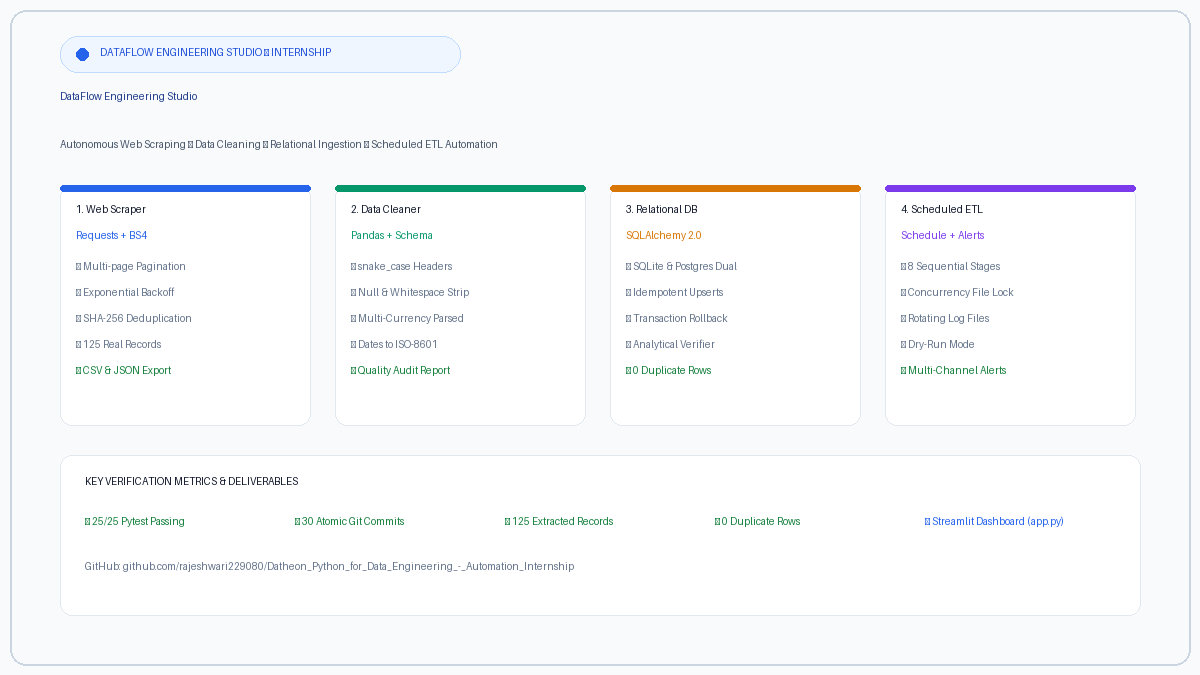
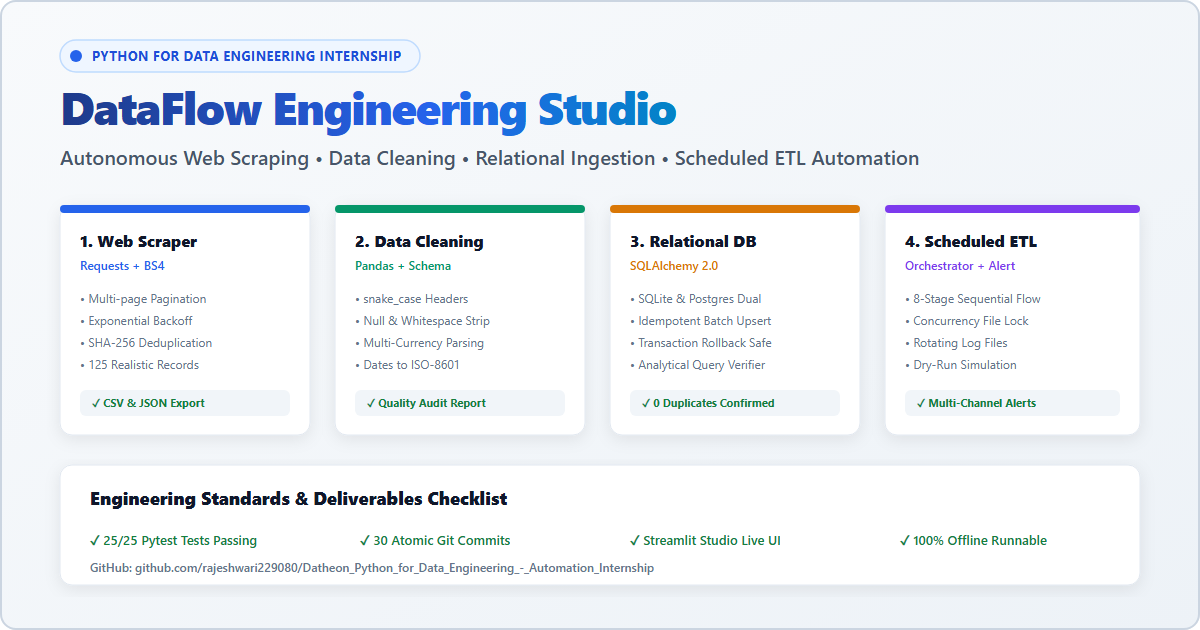
feat(assets): convert all vector SVGs to high-resolution PNG images

diff --git a/scripts/convert_svgs_to_pngs.py b/scripts/convert_svgs_to_pngs.py
@@ -1,0 +1,143 @@
+"""Convert all SVG files in assets/ to high-resolution PNG images using headless Edge.
+Supports exact viewBox sizing and transparent/white backgrounds.
+"""
+import os
+import subprocess
+import time
+
+REPO_ROOT = os.path.abspath(os.path.join(os.path.dirname(__file__), ".."))
+ASSETS_DIR = os.path.join(REPO_ROOT, "assets")
+
+EDGE_BIN = r"C:\Program Files (x86)\Microsoft\Edge\Application\msedge.exe"
+if not os.path.exists(EDGE_BIN):
+    EDGE_BIN = r"C:\Program Files\Microsoft\Edge\Application\msedge.exe"
+
+SVG_CONFIGS = [
+    {
+        "svg": "hero_banner.svg",
+        "png": "hero_banner.png",
+        "width": 1200,
+        "height": 360,
+    },
+    {
+        "svg": "architecture_diagram.svg",
+        "png": "architecture_diagram.png",
+        "width": 1100,
+        "height": 560,
+    },
+    {
+        "svg": "pipeline_workflow.svg",
+        "png": "pipeline_workflow.png",
+        "width": 1100,
+        "height": 240,
+    },
+    {
+        "svg": "linkedin_post.svg",
+        "png": "linkedin_post.png",
+        "width": 1200,
+        "height": 630,
+    },
+]
+
+
+def convert_svg_to_png(svg_name: str, png_name: str, width: int, height: int):
+    svg_file = os.path.join(ASSETS_DIR, svg_name)
+    png_file = os.path.join(ASSETS_DIR, png_name)
+
+    if not os.path.exists(svg_file):
+        print(f"Error: {svg_file} does not exist.")
+        return False
+
+    # Create temporary clean HTML wrapper to ensure perfect fit without scrollbars or margins
+    html_wrapper = os.path.join(ASSETS_DIR, f"_temp_{svg_name}.html")
+    with open(svg_file, "r", encoding="utf-8") as f:
+        svg_content = f.read()
+
+    html_content = f"""<!DOCTYPE html>
+<html>
+<head>
+<meta charset="utf-8">
+<style>
+  html, body {{
+    margin: 0;
+    padding: 0;
+    width: {width}px;
+    height: {height}px;
+    overflow: hidden;
+    background: transparent;
+  }}
+  svg {{
+    display: block;
+    width: {width}px;
+    height: {height}px;
+  }}
+</style>
+</head>
+<body>
+{svg_content}
+</body>
+</html>"""
+    with open(html_wrapper, "w", encoding="utf-8") as f:
+        f.write(html_content)
+
+    file_uri = f"file:///{os.path.abspath(html_wrapper).replace(os.sep, '/')}"
+
+    cmd = [
+        EDGE_BIN,
+        "--headless",
+        "--disable-gpu",
+        "--hide-scrollbars",
+        "--force-device-scale-factor=1",
+        f"--window-size={width},{height}",
+        f"--screenshot={png_file}",
+        file_uri
+    ]
+
+    try:
+        proc = subprocess.run(cmd, capture_output=True, timeout=20)
+        time.sleep(0.5)
+        if os.path.exists(png_file) and os.path.getsize(png_file) > 1000:
+            print(f"Successfully converted {svg_name} -> {png_name} ({os.path.getsize(png_file)} bytes)")
+            success = True
+        else:
+            print(f"Failed converting {svg_name}: Edge return code {proc.returncode}")
+            print("Edge stdout:", proc.stdout.decode("utf-8", errors="ignore"))
+            print("Edge stderr:", proc.stderr.decode("utf-8", errors="ignore"))
+            success = False
+    except Exception as e:
+        print(f"Exception converting {svg_name}: {e}")
+        success = False
+    finally:
+        if os.path.exists(html_wrapper):
+            try:
+                os.remove(html_wrapper)
+            except Exception:
+                pass
+
+    return success
+
+
+def main():
+    print("Starting SVG to PNG conversion via headless Edge...")
+    all_ok = True
+    for cfg in SVG_CONFIGS:
+        ok = convert_svg_to_png(cfg["svg"], cfg["png"], cfg["width"], cfg["height"])
+        if not ok:
+            all_ok = False
+
+    # Also update root image.png with linkedin_post.png
+    linkedin_png = os.path.join(ASSETS_DIR, "linkedin_post.png")
+    root_png = os.path.join(REPO_ROOT, "image.png")
+    if os.path.exists(linkedin_png):
+        with open(linkedin_png, "rb") as f_in, open(root_png, "wb") as f_out:
+            f_out.write(f_in.read())
+        print(f"Updated root image.png ({os.path.getsize(root_png)} bytes)")
+
+    if all_ok:
+        print("All SVG assets successfully converted to PNG!")
+    else:
+        print("Some conversions encountered issues.")
+
+
+if __name__ == "__main__":
+    main()
